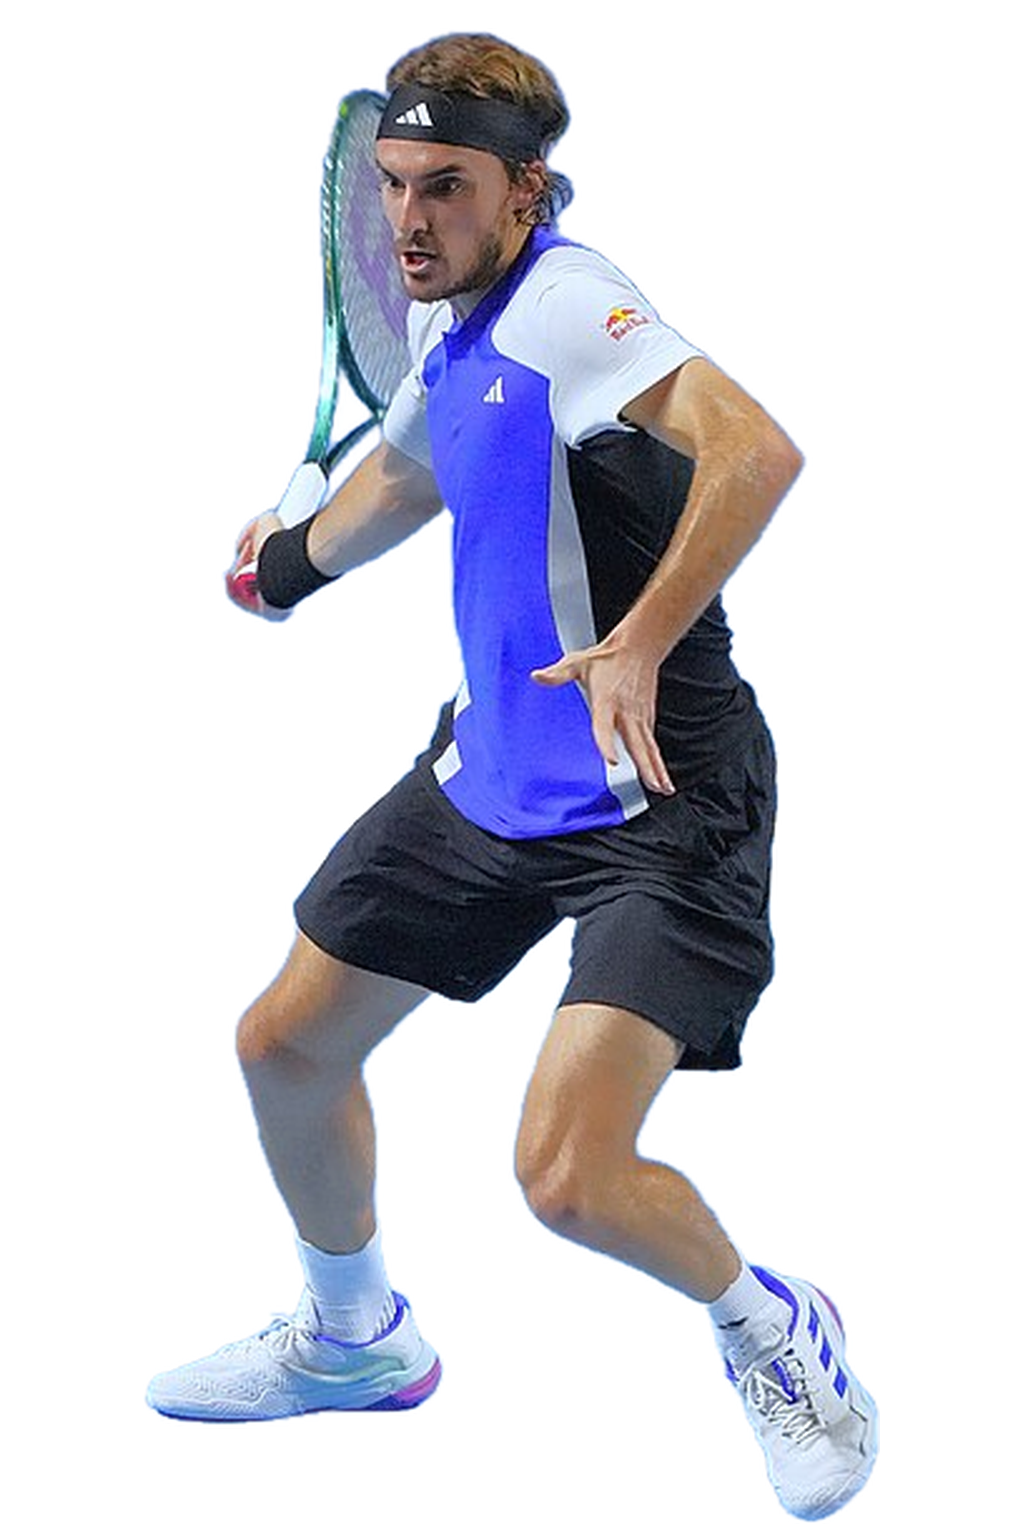
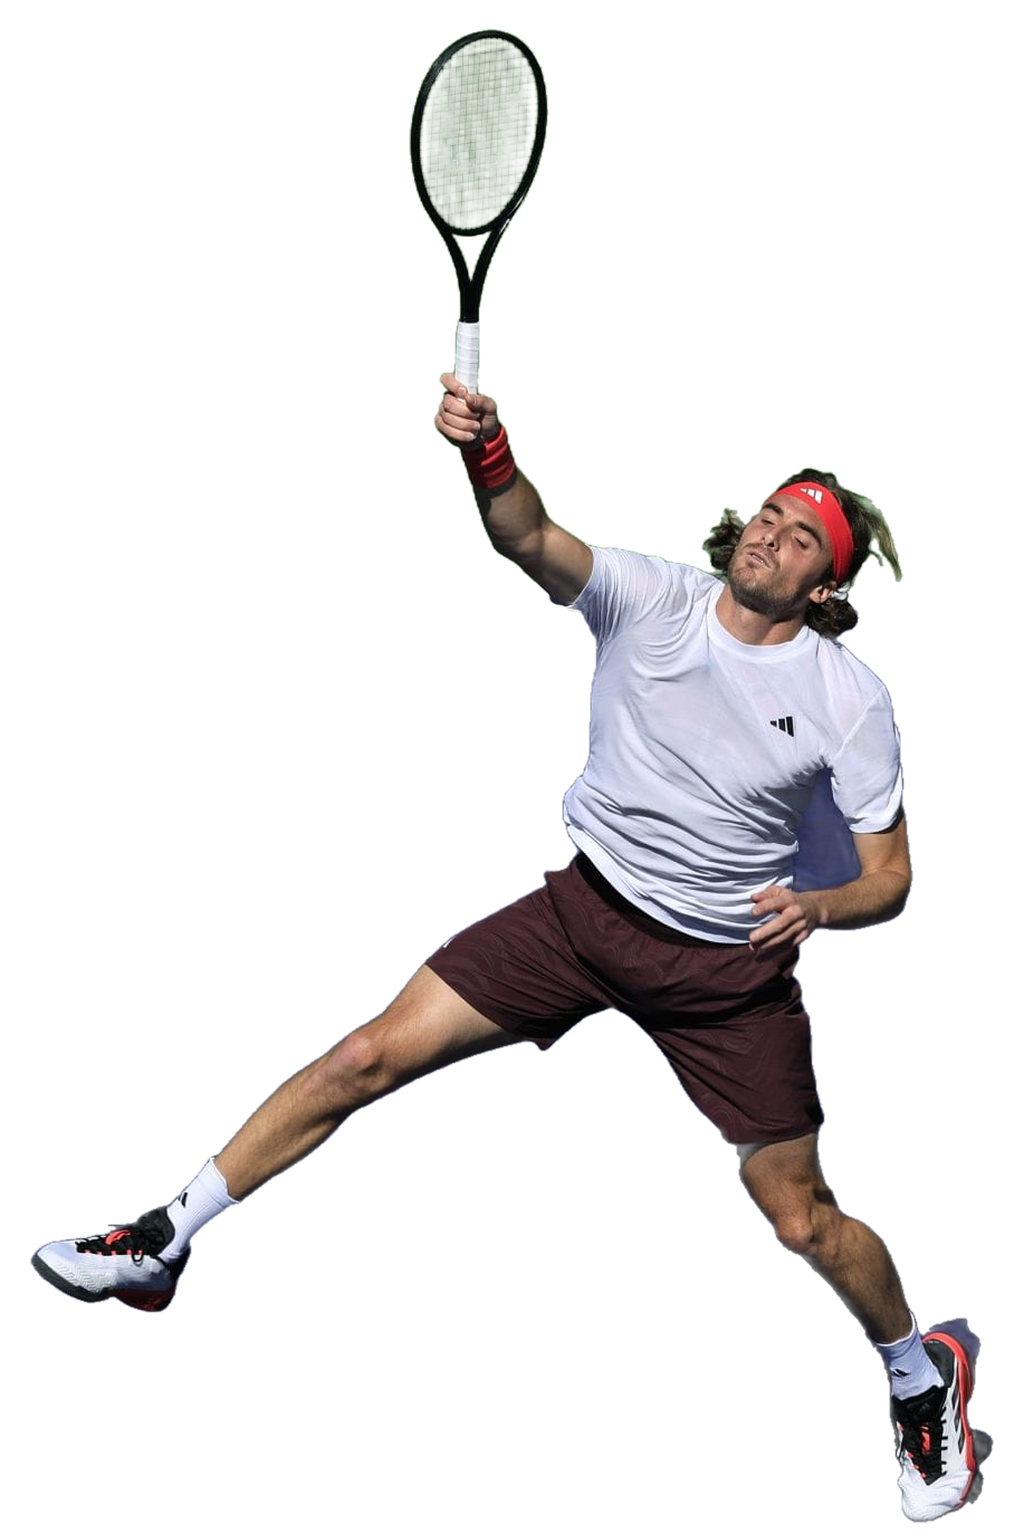
Refine player portrait sizing, direction, and edges

diff --git a/app/MatchDashboard.tsx b/app/MatchDashboard.tsx
@@ -362,7 +362,7 @@ const PLAYER_PHOTO_HOME_SIDE:Record<string,"left"|"right">={
   "Flavio Cobolli":"right",
   "Alejandro Davidovich Fokina":"right",
   "Alexander Bublik":"left",
-  "Andrey Rublev":"left",
+  "Andrey Rublev":"right",
   "Thiago Agustin Tirante":"left",
   "Nick Kyrgios":"right",
   "Nuno Borges":"right",
@@ -442,7 +442,7 @@ const PLAYER_PHOTO_HOME_SIDE:Record<string,"left"|"right">={
 };
 const PLAYER_PORTRAIT_SCALE:Record<string,"108"|"109"|"110"|"1143"|"115"|"117"|"118"|"120"|"121"|"127"|"130"|"133"|"1333"|"140"|"140plain"|"143"|"145"|"150"|"157"|"160"|"164"|"166"|"169"|"176"|"177"|"180"|"182"|"183"|"186"|"192"|"200"|"220"|"224"|"240"|"242">={
   "Luciano Darderi":"160",
-  "Daniel Merida Aguilar":"176",
+  "Daniel Merida Aguilar":"110",
   "Casper Ruud":"224",
   "Tomas Machac":"1333",
   "Alejandro Davidovich Fokina":"1143",
@@ -619,7 +619,7 @@ function PlayerPortrait({id,name,side}:{id:number|null;name:string;side:"left"|"
   const shouldMirror=homeSide!=null&&homeSide!==side;
   const sources=[
     ...(top20Slug?[`/players/cutouts/top20/${top20Slug}.png${top20Slug==="rafael-jodar"?"?v=action-oct25":top20Slug==="casper-ruud"?"?v=real-photo-nov2":""}`]:[]),
-    ...(top40Slug?[`/players/cutouts/top40/${top40Slug}.png${top40Slug==="francisco-cerundolo"?"?v=real-photo-oct19":["luciano-darderi","tomas-machac","alejandro-davidovich-fokina","quentin-halys","matteo-berrettini","andrey-rublev","stefanos-tsitsipas"].includes(top40Slug)?"?v=real-photo-nov2":""}`]:[]),
+    ...(top40Slug?[`/players/cutouts/top40/${top40Slug}.png${top40Slug==="francisco-cerundolo"?"?v=real-photo-oct19":["alejandro-davidovich-fokina","quentin-halys","stefanos-tsitsipas"].includes(top40Slug)?"?v=real-photo-nov2b":["luciano-darderi","tomas-machac","matteo-berrettini","andrey-rublev"].includes(top40Slug)?"?v=real-photo-nov2":""}`]:[]),
     ...(top60Slug?[`/players/cutouts/top60/${top60Slug}.png${top60Slug==="daniel-merida-aguilar"?"?v=real-photo-nov2b":""}`]:[]),
     ...(top80Slug?[`/players/cutouts/top80/${top80Slug}.png?v=griekspoor2`]:[]),
     ...(top100Slug?[`/players/cutouts/top100/${top100Slug}.png?v=top100-5`]:[]),

diff --git a/scripts/extract_real_photo_cutouts.py b/scripts/extract_real_photo_cutouts.py
@@ -27,7 +27,7 @@ PHOTOS = {
     "quentin-halys": ("top40_references/quentin-halys.jpg", "top40"),
     "matteo-berrettini": ("top40_references/matteo-berrettini.jpg", "top40"),
     "andrey-rublev": ("top40_references/rublev-usopen-03.jpg", "top40"),
-    "stefanos-tsitsipas": ("top40_references/stefanos-tsitsipas-basel2024.jpg", "top40"),
+    "stefanos-tsitsipas": ("top40_references/stefanos-tsitsipas-indianwells2025.jpg", "top40"),
 }
 
 
@@ -69,6 +69,28 @@ def normalize(image: Image.Image) -> Image.Image:
     return canvas
 
 
+def clean_clay_fringe(image: Image.Image) -> Image.Image:
+    """Drop clay-coloured antialias pixels at the cutout edge, without repainting."""
+    pixels = np.asarray(image).copy()
+    alpha = pixels[:, :, 3]
+    edge_depth = ndimage.distance_transform_edt(alpha > 0)
+    red = pixels[:, :, 0].astype(np.float32)
+    green = pixels[:, :, 1].astype(np.float32)
+    blue = pixels[:, :, 2].astype(np.float32)
+    clay_spill = (
+        (alpha > 0)
+        & (edge_depth <= 8)
+        & (red > 110)
+        & (red > green * 1.3)
+        & (green > blue * 1.05)
+    )
+    pixels[:, :, 3][clay_spill] = 0
+    # A narrow second trim removes source-photo colour bleeding that survives
+    # the hue check (notably around dark shoes and the racket frame).
+    pixels[:, :, 3] = ndimage.grey_erosion(pixels[:, :, 3], size=(5, 5))
+    return Image.fromarray(pixels, "RGBA")
+
+
 def main(slugs: list[str]) -> None:
     requested = slugs or list(PHOTOS)
     unknown = set(requested) - PHOTOS.keys()
@@ -81,6 +103,8 @@ def main(slugs: list[str]) -> None:
         if not source.is_file():
             raise FileNotFoundError(source)
         output = normalize(extract(source, session))
+        if slug in {"alejandro-davidovich-fokina", "quentin-halys"}:
+            output = clean_clay_fringe(output)
         destination = DESTINATIONS / group / f"{slug}.png"
         output.save(destination, optimize=True)
         alpha = np.asarray(output.getchannel("A"))

diff --git a/public/players/PHOTO_CREDITS.md b/public/players/PHOTO_CREDITS.md
@@ -35,5 +35,5 @@ These nine portraits were rebuilt using alpha extraction from the **original pho
 | `cutouts/top40/matteo-berrettini.png` | Archived real match photo `assets/player_sources/top40_references/matteo-berrettini.jpg` | Source attribution not yet verified. |
 | `cutouts/top40/tomas-machac.png` | [Miami Open action photograph](https://www.sportskeeda.com/tennis/miami-open-2024-jannik-sinner-vs-tomas-machac-preview-head-to-head-prediction-pick) | Sportskeeda / original photographer not confirmed; reuse terms not stated. |
 | `cutouts/top40/andrey-rublev.png` | [2023 US Open action photograph 03](https://commons.wikimedia.org/wiki/File:Andrey_Rublev_(2023_US_Open)_03.jpg) | Hameltion, [CC BY-SA 4.0](https://creativecommons.org/licenses/by-sa/4.0/). |
-| `cutouts/top40/stefanos-tsitsipas.png` | [2024 Swiss Indoors Basel action photograph](https://commons.wikimedia.org/wiki/File:Stefanos_Tsitsipas,_Swiss_Indoors_Basel_2024.jpg) | Skyscraper2010, [CC BY-SA 4.0](https://creativecommons.org/licenses/by-sa/4.0/). |
+| `cutouts/top40/stefanos-tsitsipas.png` | [2025 Indian Wells action photograph](https://www.sportskeeda.com/tennis/indian-wells-2025-stefanos-tsitsipas-vs-holger-rune-preview-head-to-head-prediction-odds-pick-bnp-paribas-open) | Sportskeeda / original photographer not confirmed; reuse terms not stated. |
 | `cutouts/top60/daniel-merida-aguilar.png` | [Eurosport action photograph](https://www.eurosport.es/tenis/atp-indian-wells/2026/live-daniel-merida-alex-michelsen_mtc20002103/live-commentary.shtml) | Eurosport / original photographer not confirmed; reuse terms not stated. |
